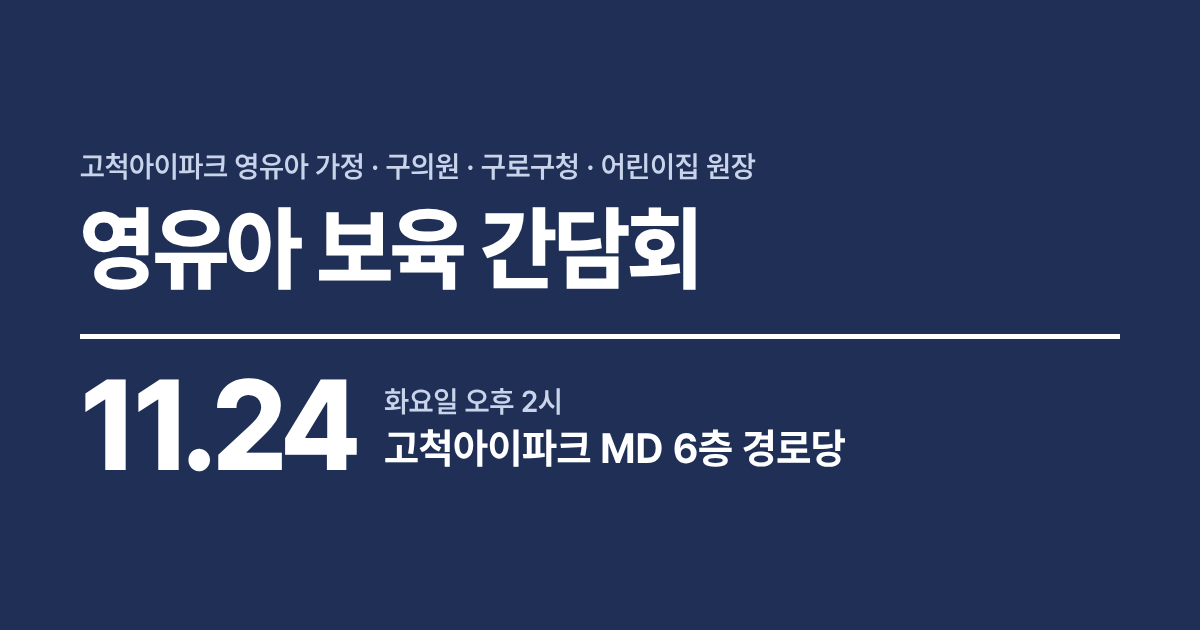
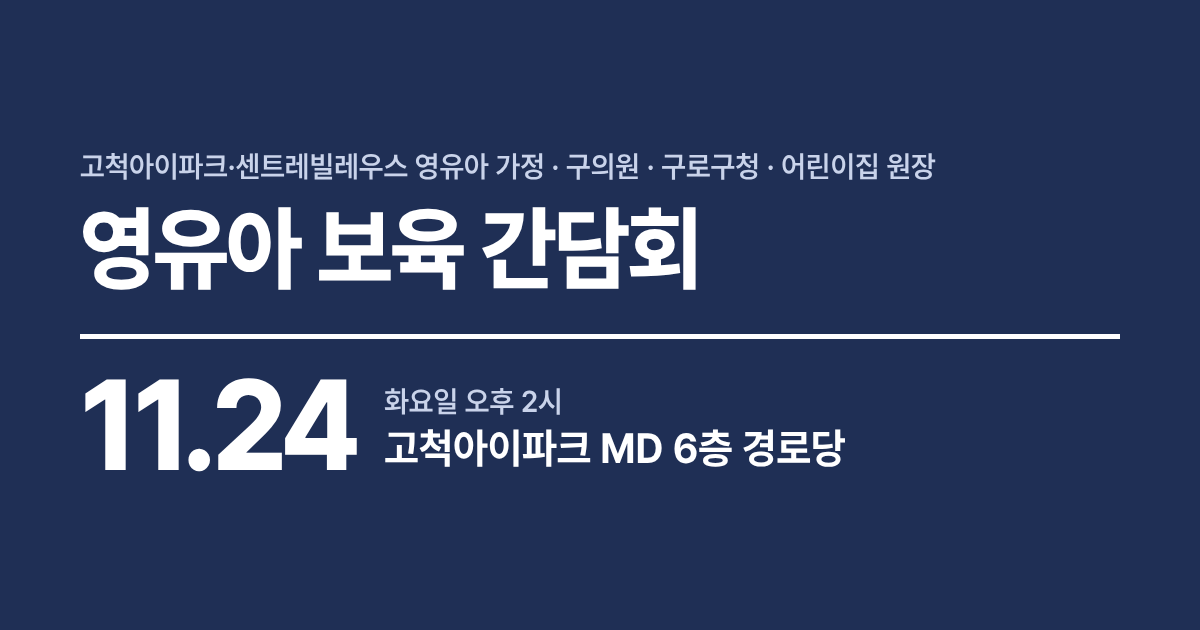
참석 주민에 센트레빌레우스 영유아 가정 추가
Claude-Session: https://claude.ai/code/session_01P7xVFQsZiGRtwdNSmLWp9M

Changed region(s): [[0.185, 0.2413, 0.8017, 0.3016]]

diff --git a/index.html b/index.html
@@ -84,7 +84,7 @@
 <header class="poster"><div class="in">
   <p class="kick">구의원 · 구로구청 · 어린이집 원장 참석</p>
   <h1>영유아 보육 간담회</h1>
-  <p class="lede">고척아이파크 영유아 가정이 0세반 자리와 영아 돌봄 시설을 직접 묻는 자리</p>
+  <p class="lede">고척아이파크·센트레빌레우스 영유아 가정이 0세반 자리와 영아 돌봄 시설을 직접 묻는 자리</p>
 
   <div class="when">
     <div class="row">
@@ -105,7 +105,7 @@
     <dt>구의회</dt><dd>이근미 구의원</dd>
     <dt>구로구청</dt><dd>복지지원국장, 가족보육과 과장·팀장</dd>
     <dt>어린이집</dt><dd>민간어린이집 원장, 가정어린이집 원장</dd>
-    <dt>주민</dt><dd>고척아이파크 영유아 가정</dd>
+    <dt>주민</dt><dd>고척아이파크, 센트레빌레우스 영유아 가정</dd>
   </dl>
 
   <a class="cta" href="https://docs.google.com/forms/d/e/1FAIpQLSdWS4mFs2GccDOJptmIpu6Gli6DjtltkPQgYjvtXbU8kmK3wA/viewform" target="_blank" rel="noopener">참석 신청</a>
